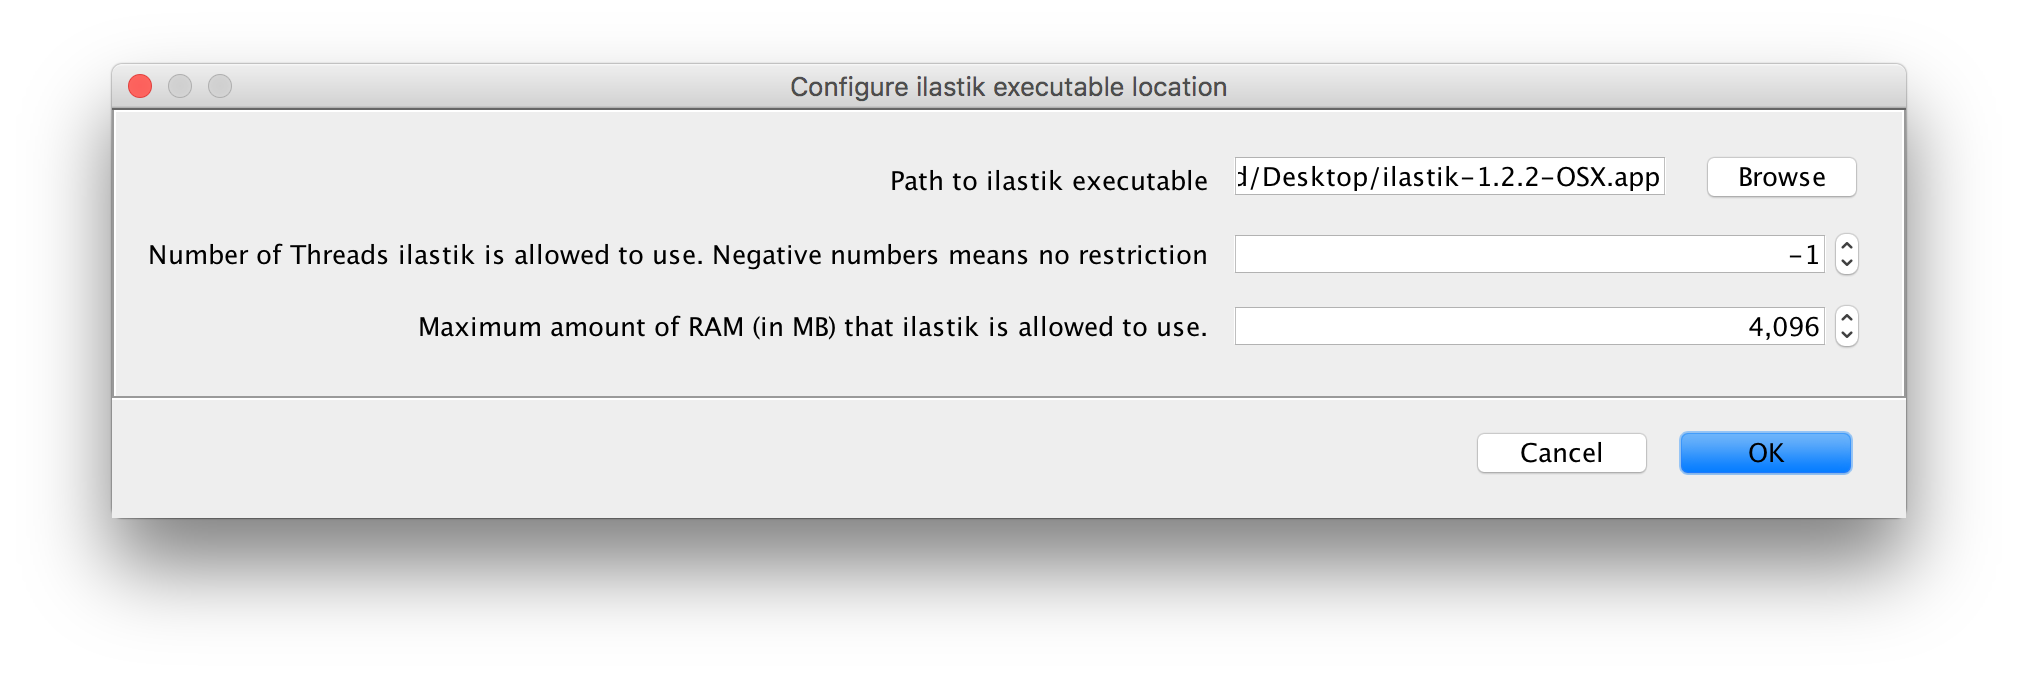
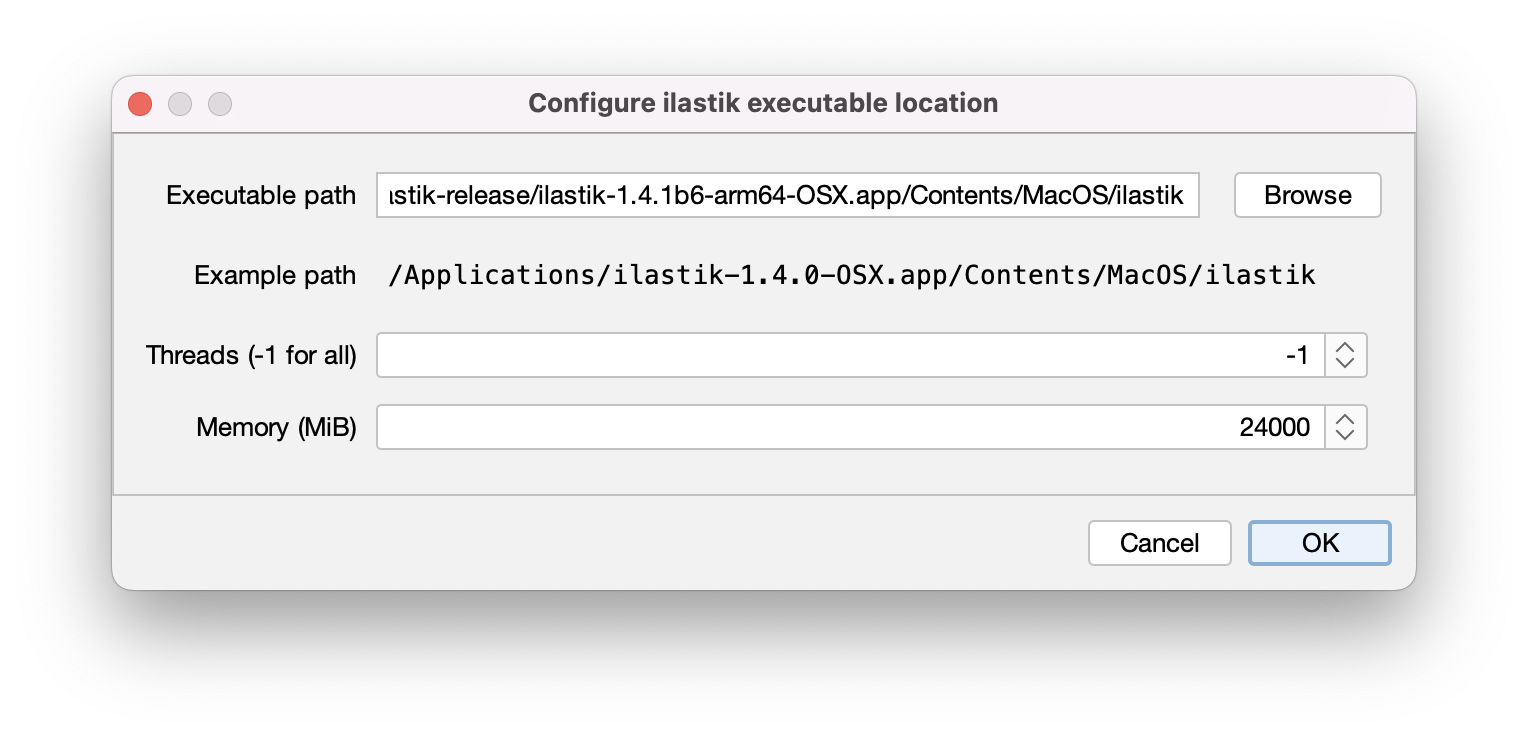
doc: update import/export/configuration
* updated screenshots to match 2.0.0
* simple macro in example
* link to macro examples

Changed region(s): [[0.0308, 0.0929, 0.9535, 0.8363], [0.123, 0.5575, 0.2768, 0.5885]]

diff --git a/README.md b/README.md
@@ -20,6 +20,7 @@ There is one additional setting showing up in the ImageJ menu, which configures 
     - [Export](#export)
     - [How to train an ilastik project to be used with those wrappers](#how-to-train-an-ilastik-project-to-be-used-with-those-wrappers)
     - [ilastik configuration for the workflow wrappers](#configuration)
+    - [Configuration](#configuration-for-running-ilastik-from-within-Fiji)
     - [Pixel Classification and Autocontext](#pixel-classification-and-autocontext)
     - [Object Classification](#object-classification)
     - [Boundary-based Segmentation with Multicut](#boundary-based-segmentation-with-multicut)
@@ -55,41 +56,45 @@ See the [Training](#how-to-train-an-ilastik-project-to-be-used-with-those-wrappe
 Found at `Plugins -> ilastik -> Import HDF5`.
 
 HDF5 files can contain multiple datasets. Thus, when you import an HDF5 file containing more than one dataset, 
-you will have to select which dataset you want to import. After choosing a given HDF5 file, you will be presented with the following dialog:
+you will have to select which dataset you want to import by selecting the _Dataset Name_:
 
 ![ImageJ Menu](./doc/screenshots/IJ-Import.png)
 
-where you should select or enter the correct meaning of the different dimensions of the dataset. 
+Here you should double check the correct meaning of the different _Dimensions_ of the dataset by specifying the _Axes_. 
 At least `x` and `y` must be present, and the number of characters (`x`,`y`,`z` spatial, `c` channels and `t` time)
 must be equal to the number of dimensions listed in the description above.
 
-#### Batch processing
+#### Example Macro usage
 
-The macro below demonstrates how to import many `.h5` files that were generated with ilastik using a macro:
+The macro below demonstrates how to import many `.h5` files that were generated with ilastik using a macro.
 
-```
-dataDir = "<DATASET_DIR>";
-fileList = getFileList(dataDir);
-for (i = 0; i < fileList.length; i++) {
-	// import image from the H5
-	fileName = dataDir + fileList[i];	
-	importArgs = "select=" + fileName + " datasetname=" + inputDataset + " axisorder=" + axisOrder; 			
-	run("Import HDF5", importArgs);
-}
+```javascript
+input = "/absolute/path/to/some/directory/src/test/resources/2d_cells_apoptotic_1channel.h5";
+
+datasetname = "/data";
+axisorder = "tzyxc";
+
+run("Import HDF5", "select=[" + input + "] datasetname=[" + datasetname + "] axisorder=[" + axisorder + "]");
 ```
 
+see also [`./examples/import.ijm`](./examples/import.ijm)
 
 ### Export
 
 Found at `Plugins -> ilastik -> Export HDF5`.
 
-If you want to save the currently opened image to a HDF5 file that can be immediately opened in ilastik,
+If you want to save the currently opened image to an HDF5 file that can be immediately opened in ilastik,
 use this export option. Additionally to the location where the file should be saved, you could specify the output
 data set name as well as how much the dataset should be compressed.
 Use `0` for raw data because it doesn't compress well, but `9` for segmentations etc, where many pixel values are equal.
 The plugin uses (lossless) gzip compression.
 
 ![ImageJ Menu](./doc/screenshots/IJ-Export.png)
+
+#### Example Macro usage
+
+You can find a simple example macro in [`./examples/export.ijm`](./examples/export.ijm).
+Furthermore, there is an example macro demonstrating how to convert a whole folder of `.tiff` files to `.h5` in [`./examples/convert_tiff_to_ilastik_h5.ijm`](./examples/convert_tiff_to_ilastik_h5.ijm).
 
 ### How to train an ilastik project for use in the plugins
 
@@ -107,7 +112,8 @@ The export creates files with maximum compatibility with ilastik - and you will 
 With this you make sure that the whole processing chain will work.
 
 
-### ilastik configuration of the workflow wrappers
+### Configuration for running ilastik from within Fiji
+
 Found at `Plugins -> ilastik -> Configure ilastik executable location`.
 
 ![configuration dialog](./doc/screenshots/IJ-Config.png)
